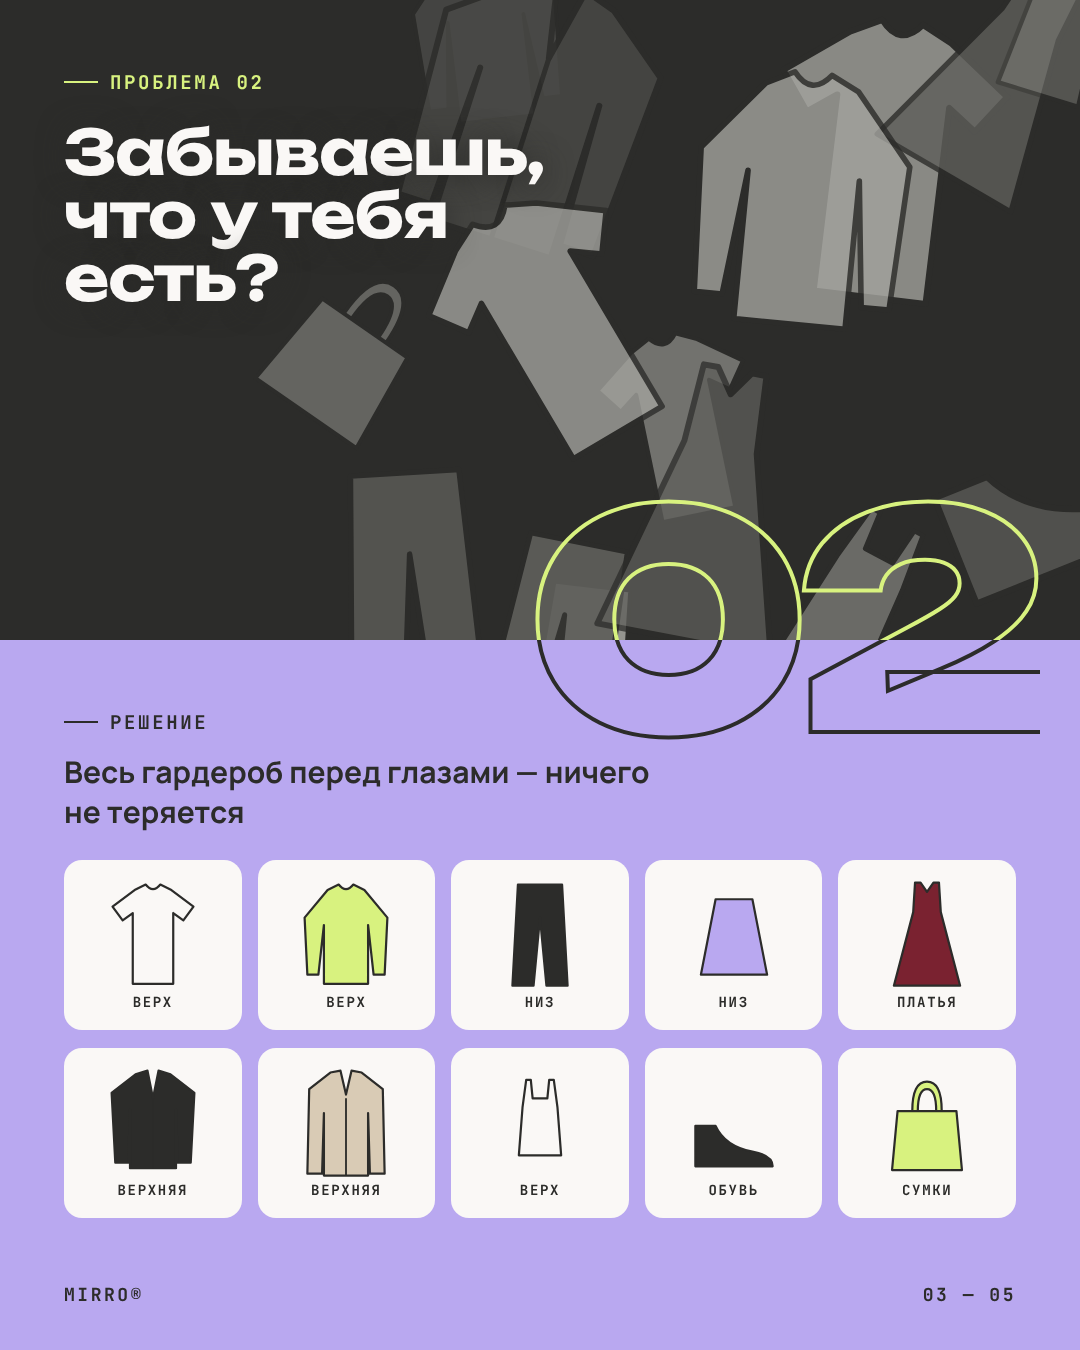
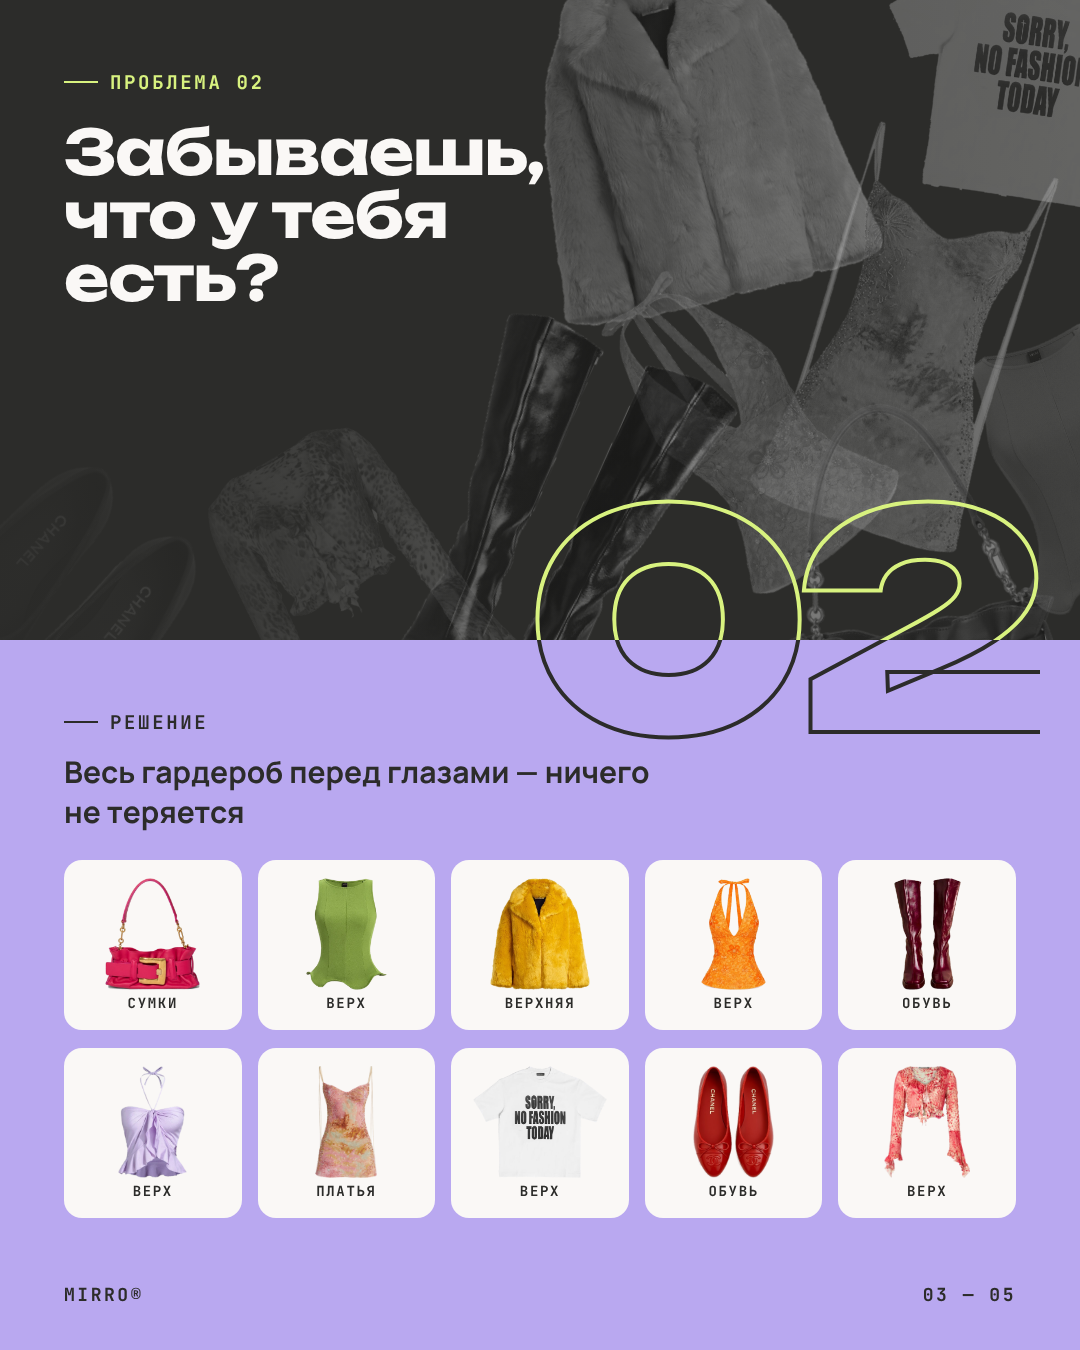
Карусель 3: настоящие вещи на слайдах 3–5
Claude-Session: https://claude.ai/code/session_01V1NUh11xrVMcB1cs4GV2qz

diff --git a/carousels/03-why-convenient/03.html b/carousels/03-why-convenient/03.html
@@ -9,32 +9,42 @@
     .order { background: var(--lavender); }
     .grid { position: absolute; left: 64px; right: 64px; top: 220px; display: grid; grid-template-columns: repeat(5, 1fr); gap: 18px 16px; }
     .cell { background: var(--cream); border-radius: 18px; height: 170px; display: flex; flex-direction: column; align-items: center; justify-content: center; }
-    .cell .g { position: relative; width: 92px; }
+    .cell img { height: 112px; max-width: 150px; object-fit: contain; display: block; }
+    .sc { position: absolute; filter: grayscale(1) brightness(.85); }
     .cell .cap { margin-top: 4px; font-size: 14px; }
   </style>
 </head>
 <body>
   <div class="slide">
     <div class="half chaos">
-      <div class="pile" data-n="16" data-seed="21" data-size="210" data-fade="1" data-tones="#4a4a47,#5e5e5a,#74746f,#8b8b86,#a3a39e" style="left:300px; top:-80px; width:960px; height:800px;"></div>
+      <img class="sc" src="img/item-coat-yellow.png" style="left:520px; top:-60px; width:330px; transform:rotate(-14deg); opacity:0.55;" alt="">
+      <img class="sc" src="img/item-tee-white.png" style="left:880px; top:-50px; width:300px; transform:rotate(8deg); opacity:0.35;" alt="">
+      <img class="sc" src="img/item-dress-print.png" style="left:800px; top:140px; width:220px; transform:rotate(18deg); opacity:0.4;" alt="">
+      <img class="sc" src="img/item-top-orange.png" style="left:640px; top:260px; width:190px; transform:rotate(-40deg); opacity:0.45;" alt="">
+      <img class="sc" src="img/item-boots.png" style="left:420px; top:330px; width:250px; transform:rotate(24deg); opacity:0.6;" alt="">
+      <img class="sc" src="img/item-bag-pink.png" style="left:760px; top:400px; width:300px; transform:rotate(-10deg); opacity:0.5;" alt="">
+      <img class="sc" src="img/item-blouse-print.png" style="left:230px; top:430px; width:260px; transform:rotate(-30deg); opacity:0.3;" alt="">
+      <img class="sc" src="img/item-flats-red.png" style="left:-60px; top:470px; width:220px; transform:rotate(40deg); opacity:0.35;" alt="">
+      <img class="sc" src="img/item-top-green.png" style="left:980px; top:330px; width:200px; transform:rotate(-20deg); opacity:0.3;" alt="">
+      <div style="position:absolute; inset:0; background:linear-gradient(90deg, rgba(44,44,42,.85) 0%, rgba(44,44,42,.2) 55%, rgba(44,44,42,0) 100%);"></div>
       <div class="lbl" style="left:64px; top:70px; color: var(--lime);">Проблема 02</div>
-      <div class="head" style="left:64px; top:120px; width:520px; text-shadow: 0 2px 30px #2C2C2A;">Забываешь, что у тебя есть?</div>
+      <div class="head" style="left:64px; top:120px; width:520px; ">Забываешь, что у тебя есть?</div>
     </div>
     <div class="seam-num">02</div><div class="seam-num low">02</div>
     <div class="half order">
       <div class="lbl" style="left:64px; top:70px;">Решение</div>
       <div class="body" style="left:64px; top:112px; width:620px;">Весь гардероб перед глазами — ничего не теряется</div>
       <div class="grid">
-        <div class="cell"><i class="g" data-g="tee" data-c="#FAF8F6"></i><div class="cap">Верх</div></div>
-        <div class="cell"><i class="g" data-g="sweater" data-c="#D8F27F"></i><div class="cap">Верх</div></div>
-        <div class="cell"><i class="g" data-g="trousers" data-c="#2C2C2A"></i><div class="cap">Низ</div></div>
-        <div class="cell"><i class="g" data-g="skirt" data-c="#B9A8F0"></i><div class="cap">Низ</div></div>
-        <div class="cell"><i class="g" data-g="dress" data-c="#7a2230"></i><div class="cap">Платья</div></div>
-        <div class="cell"><i class="g" data-g="jacket" data-c="#2C2C2A"></i><div class="cap">Верхняя</div></div>
-        <div class="cell"><i class="g" data-g="coat" data-c="#d9cbb5"></i><div class="cap">Верхняя</div></div>
-        <div class="cell"><i class="g" data-g="top" data-c="#FAF8F6"></i><div class="cap">Верх</div></div>
-        <div class="cell"><i class="g" data-g="shoe" data-c="#2C2C2A"></i><div class="cap">Обувь</div></div>
-        <div class="cell"><i class="g" data-g="bag" data-c="#D8F27F"></i><div class="cap">Сумки</div></div>
+        <div class="cell"><img src="img/item-bag-pink.png" alt=""><div class="cap">Сумки</div></div>
+        <div class="cell"><img src="img/item-top-green.png" alt=""><div class="cap">Верх</div></div>
+        <div class="cell"><img src="img/item-coat-yellow.png" alt=""><div class="cap">Верхняя</div></div>
+        <div class="cell"><img src="img/item-top-orange.png" alt=""><div class="cap">Верх</div></div>
+        <div class="cell"><img src="img/item-boots.png" alt=""><div class="cap">Обувь</div></div>
+        <div class="cell"><img src="img/item-top-lilac.png" alt=""><div class="cap">Верх</div></div>
+        <div class="cell"><img src="img/item-dress-print.png" alt=""><div class="cap">Платья</div></div>
+        <div class="cell"><img src="img/item-tee-white.png" alt=""><div class="cap">Верх</div></div>
+        <div class="cell"><img src="img/item-flats-red.png" alt=""><div class="cap">Обувь</div></div>
+        <div class="cell"><img src="img/item-blouse-print.png" alt=""><div class="cap">Верх</div></div>
       </div>
     </div>
     <div class="foot" style="color: var(--dark);"><span>MIRRO®</span><span>03 — 05</span></div>

diff --git a/carousels/03-why-convenient/04.html b/carousels/03-why-convenient/04.html
@@ -7,17 +7,19 @@
   <link rel="stylesheet" href="style.css">
   <style>
     .order { background: var(--cream); }
-    .same { position: absolute; left: 64px; top: 330px; display: flex; gap: 30px; }
-    .same .g { position: relative; width: 150px; }
-    .row { position: absolute; left: 64px; top: 240px; display: flex; align-items: center; gap: 34px; }
-    .row .g { position: relative; }
-    .x { position: absolute; inset: -6px; }
-    .x::before, .x::after { content: ""; position: absolute; left: 50%; top: 50%; width: 150%; height: 8px; background: var(--dark); border-radius: 4px; }
+    .same { position: absolute; left: 560px; top: 80px; display: flex; align-items: flex-end; gap: 10px; }
+    .same img { height: 250px; filter: grayscale(1) brightness(.85); }
+    .same img:nth-child(1) { transform: rotate(-6deg); } .same img:nth-child(3) { transform: rotate(5deg); }
+    .row { position: absolute; left: 64px; right: 64px; top: 230px; display: flex; gap: 24px; }
+    .pick { position: relative; flex: 1; height: 380px; border-radius: 22px; background: #fff; display: flex; align-items: center; justify-content: center; }
+    .pick img { height: 250px; max-width: 240px; object-fit: contain; margin-top: -30px; }
+    .pick.no { background: var(--lime); }
+    .pick span { position: absolute; left: 14px; right: 14px; bottom: 14px; text-align: center; font-family: var(--font-mono); font-size: 15px; font-weight: 700; letter-spacing: .08em; text-transform: uppercase; padding: 8px 6px; border-radius: 8px; }
+    .ok { background: var(--cream); color: var(--dark); border: 2px solid var(--dark); }
+    .nope { background: var(--dark); color: var(--cream); }
+    .x { position: absolute; left: 40px; right: 40px; top: 50px; bottom: 90px; }
+    .x::before, .x::after { content: ""; position: absolute; left: 50%; top: 50%; width: 120%; height: 8px; background: var(--dark); border-radius: 4px; }
     .x::before { transform: translate(-50%,-50%) rotate(45deg); } .x::after { transform: translate(-50%,-50%) rotate(-45deg); }
-    .slot { position: relative; width: 110px; opacity: .35; }
-    .keep { position: relative; width: 150px; padding: 14px; background: var(--lime); border-radius: 20px; }
-    .arrow { font-family: var(--font-display); font-weight: 900; font-size: 60px; }
-    .outfit { width: 220px; padding: 20px 10px 16px; background: var(--lime); border-radius: 22px; }
   </style>
 </head>
 <body>
@@ -26,22 +28,20 @@
       <div class="lbl" style="left:64px; top:70px; color: var(--lime);">Проблема 03</div>
       <div class="head" style="left:64px; top:120px; width:420px;">Покупаешь похожее?</div>
       <div class="same">
-        <i class="g" data-g="top" data-c="#5e5e5a" style="--r:-6deg"></i>
-        <i class="g" data-g="top" data-c="#5e5e5a" style="--r:3deg"></i>
-        <i class="g" data-g="top" data-c="#5e5e5a" style="--r:-2deg"></i>
+        <img src="img/item-top-green.png" alt="">
+        <img src="img/item-top-orange.png" alt="">
+        <img src="img/item-top-lilac.png" alt="">
       </div>
-      <div class="lbl" style="left:64px; top:290px; color: rgba(250,248,246,.6);">Чёрный топ × 3</div>
+      <div class="lbl" style="left:64px; top:290px; color: rgba(250,248,246,.6);">Топ · топ · ещё один топ</div>
     </div>
     <div class="seam-num">03</div><div class="seam-num low">03</div>
     <div class="half order">
       <div class="lbl" style="left:64px; top:70px;">Решение</div>
       <div class="body" style="left:64px; top:112px; width:600px;">Примеряй до покупки — бери только то, что реально носишь</div>
       <div class="row">
-        <div class="slot"><i class="g" data-g="top" data-c="#2C2C2A" style="position:relative"></i><div class="x"></div></div>
-        <div class="slot"><i class="g" data-g="top" data-c="#2C2C2A" style="position:relative"></i><div class="x"></div></div>
-        <div class="keep"><i class="g" data-g="top" data-c="#2C2C2A" style="position:relative"></i></div>
-        <span class="arrow">→</span>
-        <div class="outfit"><i class="g" data-g="top" data-c="#2C2C2A" style="width:110px"></i><i class="g" data-g="skirt" data-c="#B9A8F0" style="width:130px; margin-top:-26px"></i><div class="cap">Примерено ✓</div></div>
+        <div class="pick"><img src="img/item-top-green.png" alt=""><span class="ok">✓ Уже в гардеробе</span></div>
+        <div class="pick"><img src="img/item-top-orange.png" alt=""><span class="ok">✓ Уже в гардеробе</span></div>
+        <div class="pick no"><img src="img/item-top-lilac.png" alt=""><div class="x"></div><span class="nope">✕ Похожий есть — не берём</span></div>
       </div>
     </div>
     <div class="foot" style="color: var(--dark);"><span>MIRRO®</span><span>04 — 05</span></div>

diff --git a/carousels/03-why-convenient/05.html b/carousels/03-why-convenient/05.html
@@ -8,8 +8,8 @@
   <style>
     .s5 { background: var(--lime); }
     .capsule { position: absolute; left: 64px; right: 64px; top: 90px; display: grid; grid-template-columns: repeat(4, 1fr); gap: 16px; }
-    .capsule .cell { height: 190px; border-radius: 18px; background: var(--cream); display: flex; align-items: center; justify-content: center; }
-    .capsule .g { position: relative; width: 110px; }
+    .capsule .cell { height: 200px; display: flex; align-items: center; justify-content: center; }
+    .capsule img { max-height: 190px; max-width: 220px; object-fit: contain; filter: drop-shadow(0 16px 20px rgba(44,44,42,.25)); }
     .brand { position: absolute; left: 56px; top: 540px; font-family: var(--font-display); font-weight: 900; font-size: 210px; line-height: .9; letter-spacing: -0.04em; }
     .tl { position: absolute; left: 64px; top: 760px; font-family: var(--font-display); font-weight: 500; font-size: 46px; line-height: 1.1; width: 900px; }
     .list { position: absolute; left: 64px; top: 900px; font-family: var(--font-mono); font-size: 22px; font-weight: 700; letter-spacing: .08em; text-transform: uppercase; line-height: 2; }
@@ -21,14 +21,14 @@
 <body>
   <div class="slide s5">
     <div class="capsule">
-      <div class="cell"><i class="g" data-g="coat" data-c="#d9cbb5"></i></div>
-      <div class="cell"><i class="g" data-g="tee" data-c="#FAF8F6"></i></div>
-      <div class="cell"><i class="g" data-g="dress" data-c="#B9A8F0"></i></div>
-      <div class="cell"><i class="g" data-g="trousers" data-c="#2C2C2A"></i></div>
-      <div class="cell"><i class="g" data-g="jacket" data-c="#7a2230"></i></div>
-      <div class="cell"><i class="g" data-g="skirt" data-c="#2C2C2A"></i></div>
-      <div class="cell"><i class="g" data-g="shoe" data-c="#2C2C2A"></i></div>
-      <div class="cell"><i class="g" data-g="bag" data-c="#B9A8F0"></i></div>
+      <div class="cell"><img src="img/item-coat-yellow.png" alt=""></div>
+      <div class="cell"><img src="img/item-dress-print.png" alt=""></div>
+      <div class="cell"><img src="img/item-bag-pink.png" alt=""></div>
+      <div class="cell"><img src="img/item-boots.png" alt=""></div>
+      <div class="cell"><img src="img/item-top-green.png" alt=""></div>
+      <div class="cell"><img src="img/item-blouse-print.png" alt=""></div>
+      <div class="cell"><img src="img/item-flats-red.png" alt=""></div>
+      <div class="cell"><img src="img/item-tee-white.png" alt=""></div>
     </div>
     <div class="brand">MIRRO</div>
     <div class="tl">твой гардероб думает за тебя</div>

diff --git a/scripts/cutout.py b/scripts/cutout.py
@@ -1,8 +1,10 @@
-"""Вырезает вещь со светлого однотонного фона: python3 scripts/cutout.py вход.jpg выход.png"""
+"""Вырезает вещь со светлого однотонного фона:
+   python3 scripts/cutout.py вход.jpg выход.png [допуск=26] [убирать_замкнутый_фон=1]
+Для белых вещей на белом фоне ставьте маленький допуск (4–8)."""
 import sys, collections
 from PIL import Image, ImageFilter
 
-def cutout(src, dst, tol=26):
+def cutout(src, dst, tol=26, holes=True):
     im = Image.open(src).convert('RGB'); W, H = im.size; px = im.load()
     corners = [px[2, 2], px[W - 3, 2], px[2, H - 3], px[W - 3, H - 3]]
     bg = tuple(sorted(c[i] for c in corners)[1] for i in range(3))
@@ -17,7 +19,7 @@ def cutout(src, dst, tol=26):
         m[x, y] = 0
         q.extend(((x + 1, y), (x - 1, y), (x, y + 1), (x, y - 1)))
     # замкнутые участки фона (например, внутри ручки сумки) — тоже убираем, если они крупные
-    for y0 in range(0, H, 3):
+    for y0 in (range(0, H, 3) if holes else []):
         for x0 in range(0, W, 3):
             if seen[y0 * W + x0] or not is_bg(px[x0, y0]): continue
             comp = []; q = collections.deque([(x0, y0)])
@@ -33,4 +35,4 @@ def cutout(src, dst, tol=26):
     im.putalpha(mask); im.crop(mask.getbbox()).save(dst)
 
 if __name__ == '__main__':
-    cutout(sys.argv[1], sys.argv[2])
+    cutout(sys.argv[1], sys.argv[2], int(sys.argv[3]) if len(sys.argv) > 3 else 26, (sys.argv[4] != '0') if len(sys.argv) > 4 else True)
